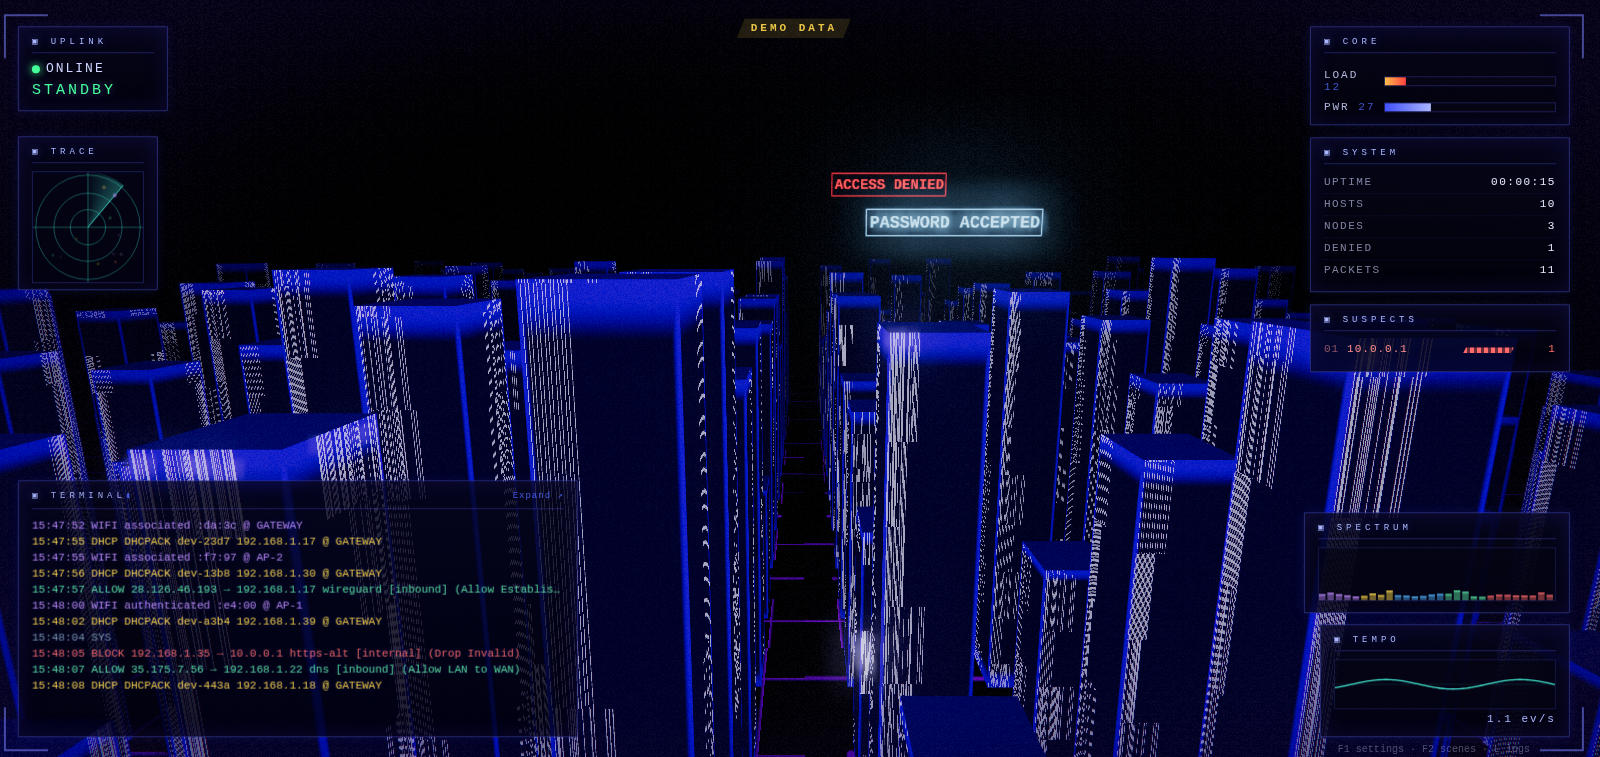
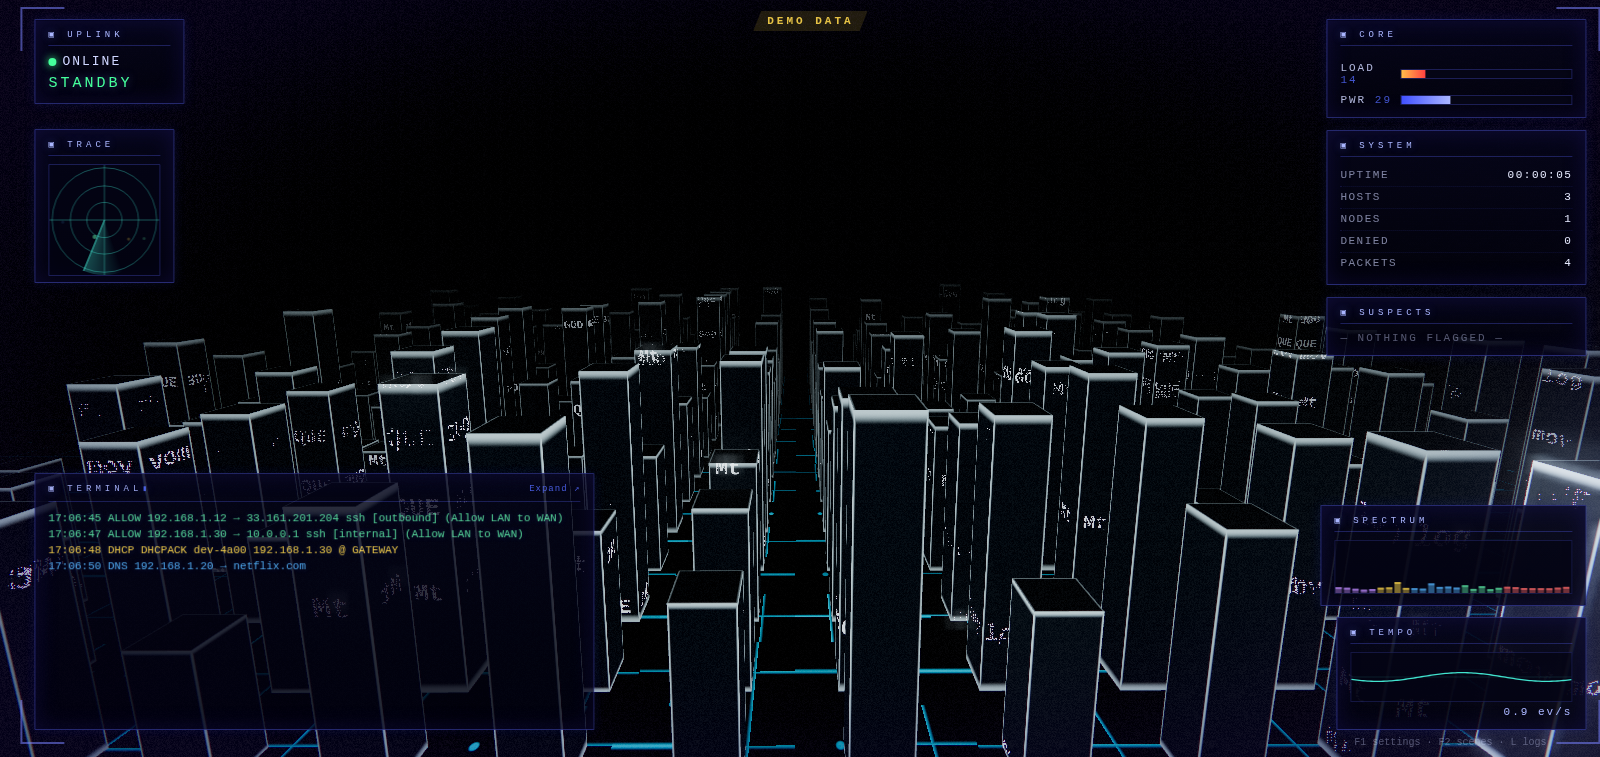
Gibson: match the film's look - edge-lit glass towers, big words, rare signs
The first pass read as UPC barcodes: tiny dense listings sampled full-width
per face line, every face glowing. Rebuilt to the movie's perspex originals:

- text atlas is now one word per cell; faces sample single words with
  aspect-correct uv, so listings read as big glyphs, not static
- towers are dark smoked glass with glowing white-cyan edge rims (per-face
  axes fix keeps top faces lit); bloom eased back
- floor traces recoloured violet -> cyan
- ACCESS banners are rare (45-120 s cooldowns, max 2 signs on screen)
- README wording and docs screenshots updated

diff --git a/web/src/themes/gibson/textatlas.ts b/web/src/themes/gibson/textatlas.ts
@@ -1,61 +1,34 @@
 import { CanvasTexture, NearestFilter, SRGBColorSpace } from 'three';
 
 /**
- * The listings that scroll down every tower face: a texture of fixed-height
- * lines, mostly hex and number junk with directory entries mixed in, like the
- * movie's storage wall. Words seen in live traffic (hostnames, DNS queries,
- * addresses) join the pool, so the wall quietly fills with your own network,
- * next to the lines from the film. The whole atlas redraws every few seconds;
- * towers pick lines with per-face offsets, so no two faces ever match.
+ * The listings on the tower faces, like the film's edge-lit perspex: sparse,
+ * big readable words — STATUS, REPORT, R606, >OVERRIDE, Security Xv7, hex and
+ * binary strings — stacked with wide gaps, scrolling slowly up or down. Words
+ * seen in live traffic (hostnames, DNS queries, addresses) join the pool, so
+ * the wall quietly fills with your own network. The whole atlas redraws every
+ * few seconds; towers pick cells with per-face hashes, so no two faces match.
+ *
+ * The atlas is a grid of cells sized to match one line-strip on a tower face
+ * (1 world unit wide : uPitch tall), so glyphs keep their aspect and read as
+ * words, not stripes.
  */
 
-const ROW_H = 32;
-const WIDTH = 512;
-const ROWS = 64;
+const COLS = 8;
+const ROWS = 6;
+const CW = 128;
+const CH = 160;
 
-const JUNK: Array<() => string> = [
-  () => (Math.random() * 0xffffffff >>> 0).toString(16).toUpperCase().padStart(8, '0'),
-  () => (Math.random() * 0xffffff >>> 0).toString(16).toUpperCase(),
-  () => String(Math.floor(Math.random() * 0xffffff)),
-  () => (Math.random().toString(16).slice(2, 10).toUpperCase()),
-  () => '00000000',
-  () => '{{{{{{{{',
-  () => '[][][][][][]',
-  () => 'DEFAULT',
-  () => '',
-];
-
-const MOVIE = [
-  'ACCESS TO THIS COMPUTER',
-  'AND ITS DATA IS RESTRICTED',
-  'TO AUTHORIZED PERSONNEL',
-  'PASSWORD ACCEPTED',
-  '             GOD',
-  'PERSONNEL   >>>',
-  'SEA ROUTINGS   >>>',
-  'GARBAGE   >>>',
-  'COMPANY BUDGETS   >>>',
-  'SCIENTIFIC BUDGETS   >>>',
-  'ANNUAL RETURNS   >>>',
-  'CENTRAL LIBRARY   >>>',
-  'CENTRAL SERVER   >>>',
-  'PAYMENT LEVELS   >>>',
-  'RECRUITMENT   >>>',
-  'OIL LOCATIONS   >>>',
-  'NUCLEAR RESEARCH   >>>',
-  'CONFIDENTIAL',
-  'FILES',
-  'DO NOT DELETE',
-  'BEFORE FINAL',
-  'BACKUP IS COMPLETED',
-  'FILE 1  WAITING FOR BACKUP',
-  'FILE 2  WAITING FOR BACKUP',
-  'FILE 3  WAITING FOR BACKUP',
-  'FILE 4  WAITING FOR BACKUP',
+const TOKENS = [
+  'STATUS', 'REPORT', 'COMFRO', 'CONFOR', 'CEPORS', 'IDLEGRO', 'IDEEIBD',
+  'CH57', '7P57', 'R606', 'SARE', '4S67', '3816', '4567', 'CH5T',
+  'ERROR', 'Security Xv7', '>OVERRIDE', '>DUMPSEG', '>VMERASE', 'log', 'mov', 'nop', 'QUE', 'Mt',
+  '5563', '1286', '35563', '20fx89c', '11100110x01', '11000010x011', '00000x0110x', '00000x111',
+  'GARBAGE', 'GOD', 'PASSWORD', 'ACCEPTED', '>>> ',
 ];
 
 export class TextAtlas {
   readonly texture: CanvasTexture;
+  readonly cols = COLS;
   readonly rows = ROWS;
   private canvas: HTMLCanvasElement;
   private ctx: CanvasRenderingContext2D;
@@ -63,8 +36,8 @@ export class TextAtlas {
 
   constructor() {
     this.canvas = document.createElement('canvas');
-    this.canvas.width = WIDTH;
-    this.canvas.height = ROW_H * ROWS;
+    this.canvas.width = CW * COLS;
+    this.canvas.height = CH * ROWS;
     this.ctx = this.canvas.getContext('2d')!;
     this.texture = new CanvasTexture(this.canvas);
     this.texture.magFilter = NearestFilter;
@@ -77,7 +50,7 @@ export class TextAtlas {
   /** A word from live traffic joins the listings. */
   addWord(s: string | null | undefined): void {
     if (!s) return;
-    const w = s.toUpperCase().replace(/\s+/g, ' ').slice(0, 26);
+    const w = s.toUpperCase().replace(/\s+/g, ' ').slice(0, 14);
     if (!w) return;
     this.words.push(w);
     if (this.words.length > 400) this.words.splice(0, 200);
@@ -87,18 +60,21 @@ export class TextAtlas {
     const c = this.ctx;
     c.fillStyle = '#000';
     c.fillRect(0, 0, this.canvas.width, this.canvas.height);
-    c.font = `bold ${ROW_H - 10}px "Courier New", monospace`;
-    c.textBaseline = 'middle';
     for (let r = 0; r < ROWS; r++) {
-      const y = r * ROW_H + ROW_H / 2;
-      const roll = Math.random();
-      let line: string;
-      if (roll < 0.52) line = JUNK[(Math.random() * JUNK.length) | 0]();
-      else if (roll < 0.72 && this.words.length) line = `${this.words[(Math.random() * this.words.length) | 0]}  >>>`;
-      else line = MOVIE[(Math.random() * MOVIE.length) | 0];
-      const hot = line === 'GARBAGE   >>>' || line.startsWith('PASSWORD');
-      c.fillStyle = hot ? '#ffffff' : '#cfd6ff';
-      c.fillText(line, 8, y);
+      for (let col = 0; col < COLS; col++) {
+        if (Math.random() < 0.28) continue;
+        let word: string;
+        if (this.words.length && Math.random() < 0.38) word = this.words[(Math.random() * this.words.length) | 0];
+        else word = TOKENS[(Math.random() * TOKENS.length) | 0];
+        const size = word.length > 11 ? 30 : word.length > 8 ? 40 : 52;
+        c.font = `bold ${size}px "Courier New", monospace`;
+        const w = c.measureText(word).width;
+        if (w > CW - 12) continue;
+        const x = 4 + Math.random() * (CW - 8 - w);
+        const y = CH * (0.34 + Math.random() * 0.36);
+        c.fillStyle = word === 'GARBAGE' || word === 'GOD' ? '#ffffff' : '#e8f4ff';
+        c.fillText(word, col * CW + x, r * CH + y);
+      }
     }
     this.texture.needsUpdate = true;
   }

diff --git a/web/src/themes/gibson/towers.ts b/web/src/themes/gibson/towers.ts
@@ -5,11 +5,11 @@ import {
 import type { TextAtlas } from './textatlas';
 
 /**
- * The storage wall: a grid of glowing monoliths drifting toward the camera,
- * each face showing a few lines of the listings atlas scrolling up or down,
- * with the etched edge-frame of the movie's perspex towers. Towers scroll
- * past, recycle at the far edge and rise back in. Events flash faces white-
- * blue, or burn a tower red while it's flagged.
+ * The storage wall: a grid of smoked-glass monoliths drifting toward the
+ * camera, each face showing large words from the listings atlas scrolling
+ * up or down, edge-lit with the glowing rim-frame of the movie's perspex
+ * towers. Towers scroll past, recycle at the far edge and rise back in.
+ * Events flash faces white, or burn a tower red while it's flagged.
  */
 
 const SP_X = 2.6;
@@ -36,30 +36,42 @@ const VERT = /* glsl */`
 const FRAG = /* glsl */`
   precision highp float;
   uniform sampler2D uAtlas;
-  uniform float uRows, uLinesPerUnit, uFogD, uPulse;
-  uniform vec3 uCamPos, uTower, uText, uRed, uTextRed;
+  uniform float uCols, uRows, uPitch, uFogD, uPulse;
+  uniform vec3 uCamPos, uFill, uEdge, uText, uRed, uTextRed;
   varying vec3 vLocal, vWorld, vN;
   varying float vSeed, vScroll, vFlash, vRed, vH;
+  float h21(vec2 p) { p = fract(p * vec2(123.34, 456.21)); p += dot(p, p + 45.32); return fract(p.x * p.y); }
   void main() {
     vec3 n = normalize(vN);
     float top = step(0.5, abs(n.y));
     float u = abs(n.x) > 0.5 ? (vLocal.z + 0.5) : (vLocal.x + 0.5);
     float v = vLocal.y + 0.5;
-    // the etched frame around each face, brightest thing after the text
-    float e = min(min(u, 1.0 - u), min(v, 1.0 - v));
-    float frame = smoothstep(0.05, 0.012, e);
-    // pick one whole atlas line so the text never bleeds across two
-    float lines = max(1.0, floor(vH * uLinesPerUnit));
-    float row = floor(v * lines + vScroll + vSeed * 17.0);
-    row = mod(row, uRows);
-    float tx = texture2D(uAtlas, vec2(u, (row + 0.5) / uRows)).r;
-    tx *= 1.0 - top;
-    vec3 towerC = mix(uTower, uRed, vRed);
+    // the edge-lit rim of the film's perspex towers: thin, bright, white-cyan.
+    // measured along each face's own two axes, so tops keep a rim square and
+    // not a full white slab
+    float ex = 0.5 - abs(vLocal.x);
+    float ey = 0.5 - abs(vLocal.y);
+    float ez = 0.5 - abs(vLocal.z);
+    float e = top > 0.5 ? min(ex, ez) : (abs(n.x) > 0.5 ? min(ey, ez) : min(ex, ey));
+    float frame = smoothstep(0.035, 0.004, e);
+    // scrolling word strips: one atlas cell (one whole word) per line, the
+    // cell aspect matching the face strip so glyphs read as words, not bars
+    float g = (v * vH + vScroll) / uPitch;
+    float idx = floor(g);
+    float f = g - idx;
+    float hs = h21(vec2(vSeed * 91.7 + 13.0, idx + 0.5));
+    float cx = floor(mod(hs * 997.0, uCols));
+    float cy = floor(mod(hs * 39187.0, uRows));
+    vec2 tuv = vec2((cx + 0.04 + u * 0.92) / uCols, (cy + 0.05 + f * 0.9) / uRows);
+    float tx = texture2D(uAtlas, tuv).r * (1.0 - top);
+    vec3 fill = mix(uFill, uRed * 0.22, vRed);
+    vec3 edge = mix(uEdge, uRed, vRed);
     vec3 textC = mix(uText, uTextRed, vRed);
-    vec3 col = towerC * (0.045 + frame * (0.55 + vFlash * 2.2));
-    col += textC * tx * (0.7 + vFlash * 2.4) * uPulse;
-    col += towerC * vFlash * 0.16;
-    col *= mix(1.0, 0.22, top);
+    vec3 col = fill * 0.9;
+    col += edge * frame * (0.62 + vFlash * 2.6);
+    col += textC * tx * (1.25 + vFlash * 2.2) * uPulse;
+    col += edge * vFlash * 0.12;
+    col *= mix(1.0, 0.3, top);
     // black fog: the far wall dissolves, like the film's storage cavern
     float d = length(vWorld - uCamPos);
     col *= exp(-uFogD * uFogD * d * d);
@@ -83,15 +95,17 @@ export class Towers {
     this.material = new ShaderMaterial({
       uniforms: {
         uAtlas: { value: atlas.texture },
+        uCols: { value: atlas.cols },
         uRows: { value: atlas.rows },
-        uLinesPerUnit: { value: 1.15 },
+        uPitch: { value: 1.25 },
         uFogD: { value: 0.044 },
         uPulse: { value: 1 },
         uCamPos: { value: new Vector3(0, 8, 7) },
-        uTower: { value: new Color(0x3a3aff) },
-        uText: { value: new Color(0xddddff) },
-        uRed: { value: new Color(0xff2626) },
-        uTextRed: { value: new Color(0xffb0b0) },
+        uFill: { value: new Color(0x0d1c26) },
+        uEdge: { value: new Color(0xdff8ff) },
+        uText: { value: new Color(0xeaf6ff) },
+        uRed: { value: new Color(0xff2e2e) },
+        uTextRed: { value: new Color(0xffb8b8) },
       },
       vertexShader: VERT,
       fragmentShader: FRAG,
@@ -117,7 +131,7 @@ export class Towers {
     this.hT = f(() => 3 + Math.random() * 5);
     this.h = f(0);
     this.scroll = f(() => Math.random() * 64);
-    this.scrollV = f(() => (Math.random() < 0.5 ? -1 : 1) * (0.15 + Math.random() * 0.35));
+    this.scrollV = f(() => (Math.random() < 0.5 ? -1 : 1) * (0.06 + Math.random() * 0.1));
     this.flash = f(0);
     this.redT = f(0);
     this.aSeed = inst('aSeed', f(() => Math.random()), geo);
@@ -179,7 +193,7 @@ export class Towers {
         this.aSeed.setX(i, Math.random());
       }
       this.h[i] += (this.hT[i] - this.h[i]) * Math.min(1, dt * 1.1);
-      this.scroll[i] += this.scrollV[i] * dt * 2.4;
+      this.scroll[i] += this.scrollV[i] * dt;
       this.flash[i] *= Math.exp(-dt * 2.6);
       if (this.redT[i] > 0) this.redT[i] -= dt;
       this.m.makeScale(1, this.h[i], 1);

diff --git a/web/src/themes/gibson/index.ts b/web/src/themes/gibson/index.ts
@@ -93,11 +93,13 @@ async function create(host: ThemeHost<typeof GIBSON_DEFAULTS>, init: RendererIni
   applyBudgets();
   window.addEventListener('resize', () => world.resize(window.innerWidth, window.innerHeight));
 
-  let floatT = 0;
-  const banner = (text: string, color: string, every: number) => {
+  // the film's signs are rare, punctuation not wallpaper: minutes apart
+  let nextDeny = 0, nextGrant = 0;
+  const banner = (text: string, color: string, nextRef: 'deny' | 'grant', everySec: number, jitterSec: number) => {
     const now = performance.now();
-    if (!settings.gBanners || now < floatT) return;
-    floatT = now + every * 1000;
+    if (!settings.gBanners || now < (nextRef === 'deny' ? nextDeny : nextGrant)) return;
+    if (nextRef === 'deny') nextDeny = now + (everySec + Math.random() * jitterSec) * 1000;
+    else nextGrant = now + (everySec + Math.random() * jitterSec) * 1000;
     billboards.spawn(text, color);
   };
 
@@ -119,7 +121,7 @@ async function create(host: ThemeHost<typeof GIBSON_DEFAULTS>, init: RendererIni
         if (!throttle.allow(`gb|blk|${ev.src_ip}|${ev.dst_port}`, 1.0)) break;
         towers.flag(uOf(who), 3);
         audio.sfx('denied', { pan: (Math.random() - 0.5) * 1.2 });
-        banner('ACCESS DENIED', '#ff5050', 7);
+        banner('ACCESS DENIED', '#ff5050', 'deny', 45, 45);
         break;
       }
       case 'threat': {
@@ -150,7 +152,7 @@ async function create(host: ThemeHost<typeof GIBSON_DEFAULTS>, init: RendererIni
         audio.cueSong('wifi');
         if (se.wifi === 'joined') {
           audio.sfx('granted');
-          banner('PASSWORD ACCEPTED', '#9fd8ff', 10);
+          banner('PASSWORD ACCEPTED', '#dff2ff', 'grant', 70, 50);
           towers.pulse(uOf(ev.mac_address ?? ev.src_ip));
         } else if (se.wifi === 'bad') {
           audio.sfx('denied', { pan: 0.3 });

diff --git a/web/src/themes/registry.ts b/web/src/themes/registry.ts
@@ -22,7 +22,7 @@ export const SCENES: Record<string, { title: string; blurb: string; accent: stri
   spy: { title: 'Panopticon', blurb: 'A made-up planet under watch: signal arcs, satellites, and an eye of god that zooms in on the people behind the traffic.', accent: '#e8c26a' },
   mainframe: { title: 'Mainframe', blurb: 'A god\'s-eye flight over a glowing circuit board at night: traffic races the traces, and dives into chips trace intruders.', accent: '#7ef3ff' },
   aquarium: { title: 'Aquarium', blurb: 'A reef tank: schools of fish for your traffic, pufferfish for blocks, a shark for threats, and bubbles for DNS lookups.', accent: '#6fe6ff' },
-  gibson: { title: 'The Gibson', blurb: 'The storage wall from the movie: pulses of light climb the towers, a DHCP lease writes a new one, and the camera locks onto red intruder files.', accent: '#5a63ff' },
+  gibson: { title: 'The Gibson', blurb: 'The storage wall from the movie: smoked-glass towers edged in glowing white, a DHCP lease writes a new one, and the camera locks onto red intruder files.', accent: '#9fd8ff' },
 };
 /** Themes in picker order: the known scenes first (as the README lists them), then any others. */
 export const SCENE_ORDER = [...Object.keys(SCENES).filter((id) => THEME_IDS.includes(id)), ...THEME_IDS.filter((id) => !(id in SCENES))];

diff --git a/web/src/themes/gibson/world.ts b/web/src/themes/gibson/world.ts
@@ -72,8 +72,8 @@ export function createWorld(mount: HTMLElement, antialias: boolean, powerPref: W
   composer.setPixelRatio(ratio);
   composer.setSize(window.innerWidth, window.innerHeight);
   const pass = new RenderPass(scene, camera);
-  // a low threshold: the edge frames and the listings are the whole scene, let them bloom
-  const bloom = new UnrealBloomPass(new Vector2(window.innerWidth / 2, window.innerHeight / 2), 0.8, 0.5, 0.35);
+  // a higher threshold: only the bright rims, words and signs bloom, not the fills
+  const bloom = new UnrealBloomPass(new Vector2(window.innerWidth / 2, window.innerHeight / 2), 0.5, 0.45, 0.62);
   const lens = new ShaderPass(LensShader);
   composer.addPass(pass);
   composer.addPass(bloom);

diff --git a/web/src/themes/gibson/ground.ts b/web/src/themes/gibson/ground.ts
@@ -1,7 +1,7 @@
 import { Color, Mesh, PlaneGeometry, ShaderMaterial, Vector3 } from 'three';
 
 /**
- * The floor of the storage cavern: a dark plane laced with violet circuit
+ * The floor of the storage cavern: a black plane laced with cyan circuit
  * traces that scroll toward the camera, every cell a random corner, run or
  * pad like the film's etched ground plane, dissolving into black fog.
  */
@@ -59,7 +59,7 @@ export class Ground {
         uSpeed: { value: 0.05 },
         uFogD: { value: 0.044 },
         uPulse: { value: 1 },
-        uColor: { value: new Color(0x8a2be2) },
+        uColor: { value: new Color(0x3fd9ff) },
         uCamPos: { value: new Vector3(0, 8, 7) },
       },
       vertexShader: VERT,

diff --git a/web/src/themes/gibson/billboards.ts b/web/src/themes/gibson/billboards.ts
@@ -46,12 +46,12 @@ export class Billboards {
     return tex;
   }
 
-  /** Spawn a sign far above the wall; caller rate-limits. */
-  spawn(text: string, color = '#9fb0ff'): void {
-    if (this.active.length > 6) return;
+  /** Spawn a sign far above the wall; caller rate-limits hard. */
+  spawn(text: string, color = '#dff2ff'): void {
+    if (this.active.length > 2) return;
     const tex = this.texture(text, color);
     const aspect = tex.image.width / tex.image.height;
-    const h = 1.1;
+    const h = 0.8;
     const mesh = new Mesh(
       new PlaneGeometry(h * aspect, h),
       new MeshBasicMaterial({ map: tex, transparent: true, blending: AdditiveBlending, depthWrite: false }),

diff --git a/web/src/themes/gibson/settings.ts b/web/src/themes/gibson/settings.ts
@@ -65,8 +65,8 @@ export const GIBSON_CONTROLS = {
     toggle('gSmooth', 'Smooth edges (on reload)'),
   ],
   color: [] as Control[],
-  colorHint: `Hue shift & intensity recolour the HUD accent. Event colours
-        (pulses blue, denials red, writes green, lookups ice, Wi-Fi purple) stay fixed.`,
+  colorHint: `Hue shift & intensity recolour the HUD accent. The wall's own
+        colours stay fixed: white-cyan edges and words, red for denials and flagged towers, cyan traces.`,
 };
 
 /** The terminal framing over the storage wall. */

diff --git a/README.md b/README.md
@@ -17,9 +17,10 @@ your own traffic. Pick a scene per screen:
   junctions, diving into chips to trace intruders
 - **Aquarium**: a 3D reef tank in the spirit of the old marine aquarium
   screensavers, where your traffic swims past as fish
-- **The Gibson**: the storage wall from *Hackers* — a grid of glowing blue
-  monoliths drifting past in the dark, your data scrolling down their faces,
-  until the camera swings around to lock onto a red file and trace the intruder
+- **The Gibson**: the storage wall from *Hackers* — a forest of dark glass
+  monoliths edged in glowing white, drifting past in the dark, your data
+  scrolling down their faces, until the camera swings around to lock onto a
+  red file and trace the intruder
 
 There's no database, no cloud and nothing is recorded. pewpew only reads syslog
 and never touches the network itself.
@@ -787,14 +788,14 @@ drift** stops the camera.
 
 ![the gibson](docs/gibson.png)
 
-The storage wall from *Hackers*, rebuilt in 3D: a grid of glowing monoliths
-drifts slowly toward you through black fog, every face showing a few lines of
-listings scrolling up or down — hex junk, directory entries (`GARBAGE >>>`),
-and the hostnames, addresses and domains your own traffic has passed by. The
-towers have the etched edge-frame of the film's perspex originals, the floor
-below is laced with violet circuit traces, and ACCESS GRANTED / ACCESS DENIED
-signs float past overhead. When the wall gets busy it scrolls faster, and a
-file being written rises out of the floor.
+The storage wall from *Hackers*, rebuilt in 3D: a forest of smoked-glass
+monoliths drifts slowly toward you through black fog, each one edge-lit like
+the film's perspex originals — dark faces picked out by glowing white rims —
+showing a few large words scrolling up or down, from the movie's `STATUS`,
+`R606` and `>OVERRIDE` to the hostnames, addresses and domains your own
+traffic has passed by. The floor below is laced with cyan circuit traces, and
+ACCESS GRANTED / ACCESS DENIED signs glide past now and then. When the wall
+gets busy it scrolls faster, and a file being written rises out of the floor.
 
 | Event | On the wall |
 |-------|-------------|
